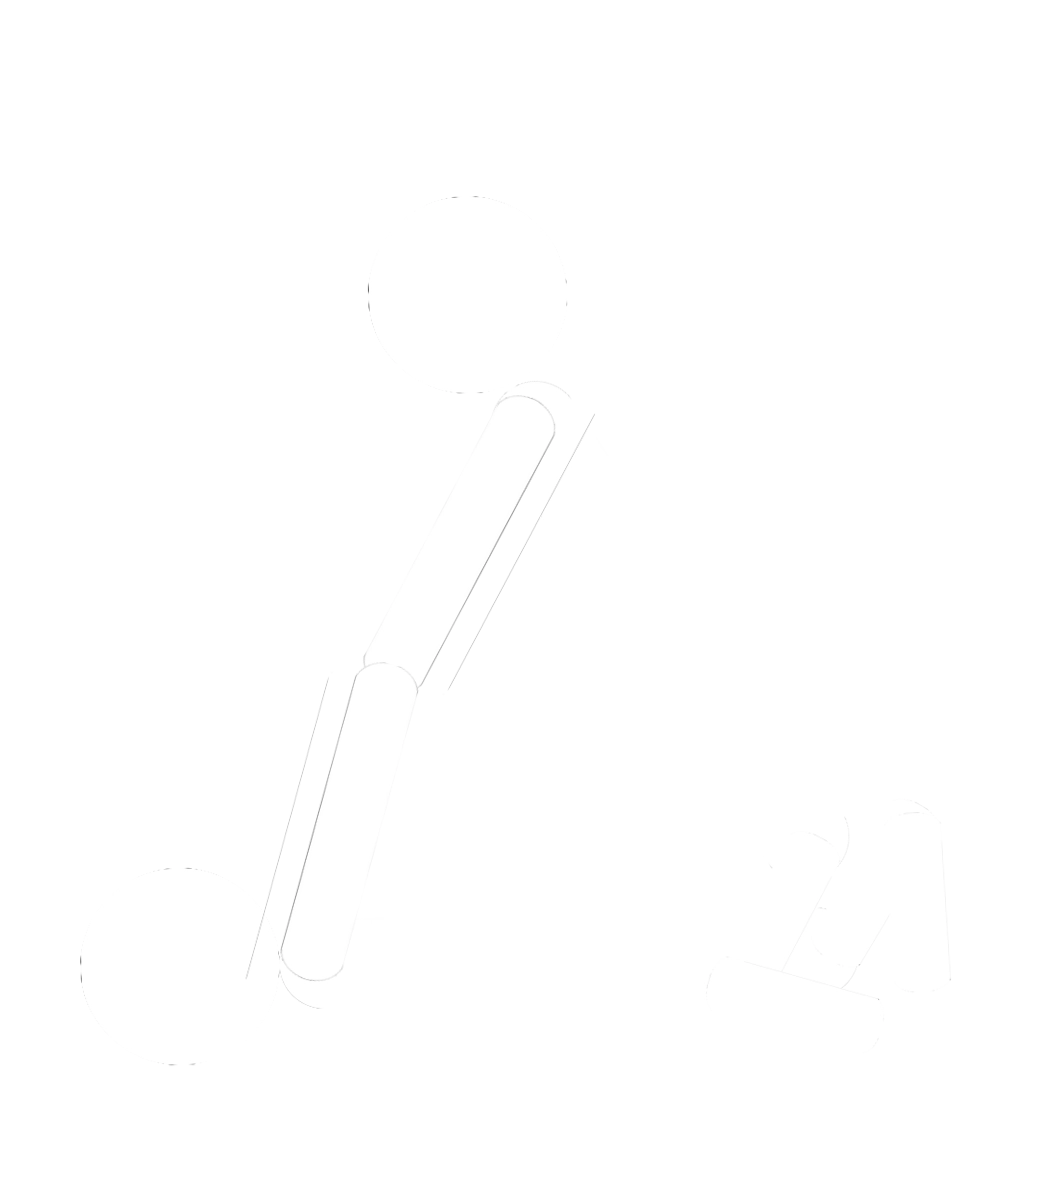
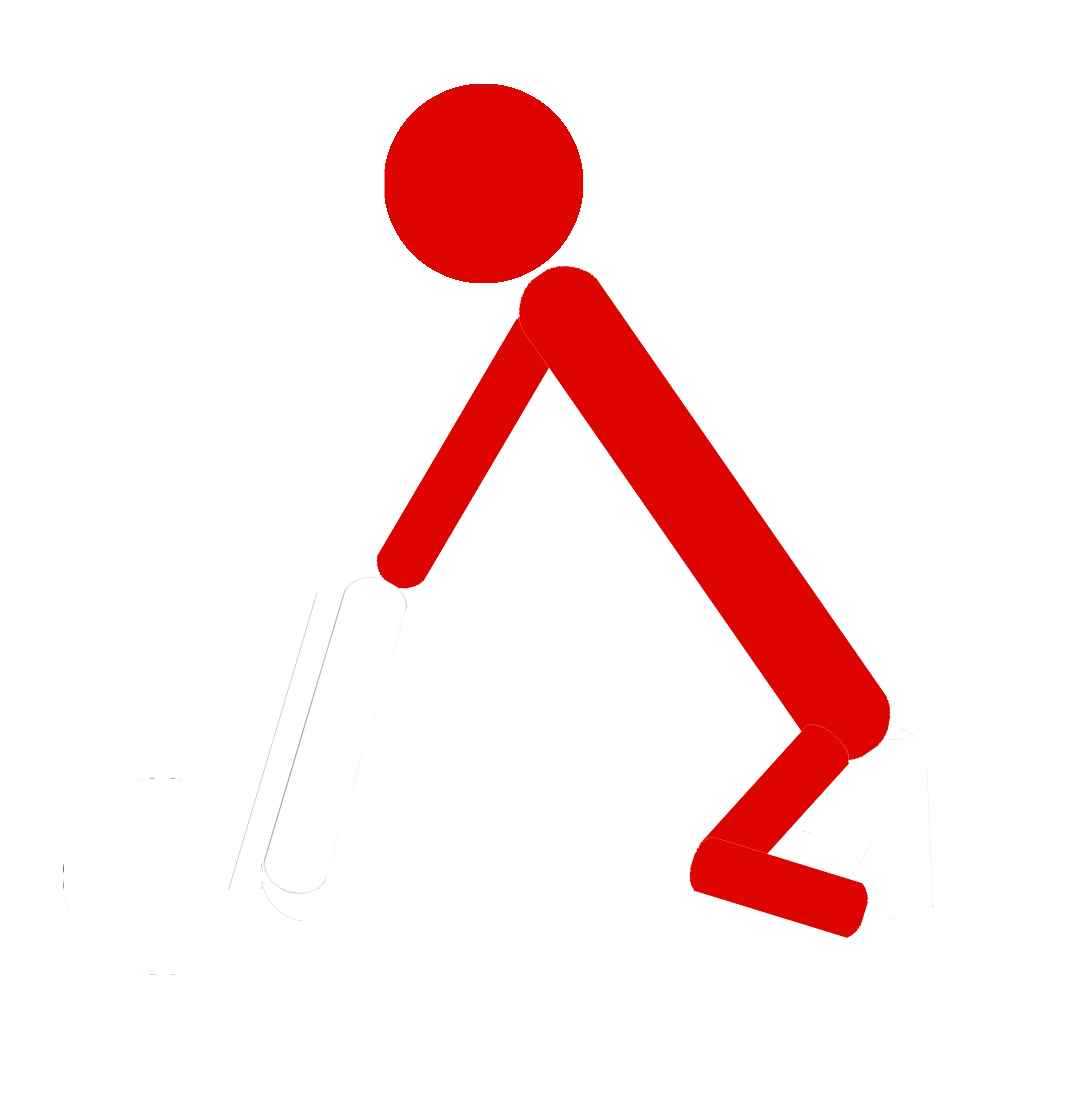
adding more positions

Changed region(s): [[0.3362, 0.0621, 0.8252, 0.8694]]

diff --git a/lib/main.dart b/lib/main.dart
@@ -75,7 +75,7 @@ class _MyAppState extends State<MyApp> {
 
   var buttonTextArrayIndex = 0;
   var _buttonText = 'Poke Me';
-  String _sexImage = 'assets/missionary.webp';
+  String _sexImage = 'assets/main.webp';
   void changeButtonText() {
     setState(() {
       buttonTextArrayIndex < buttonTextArray.length - 1
